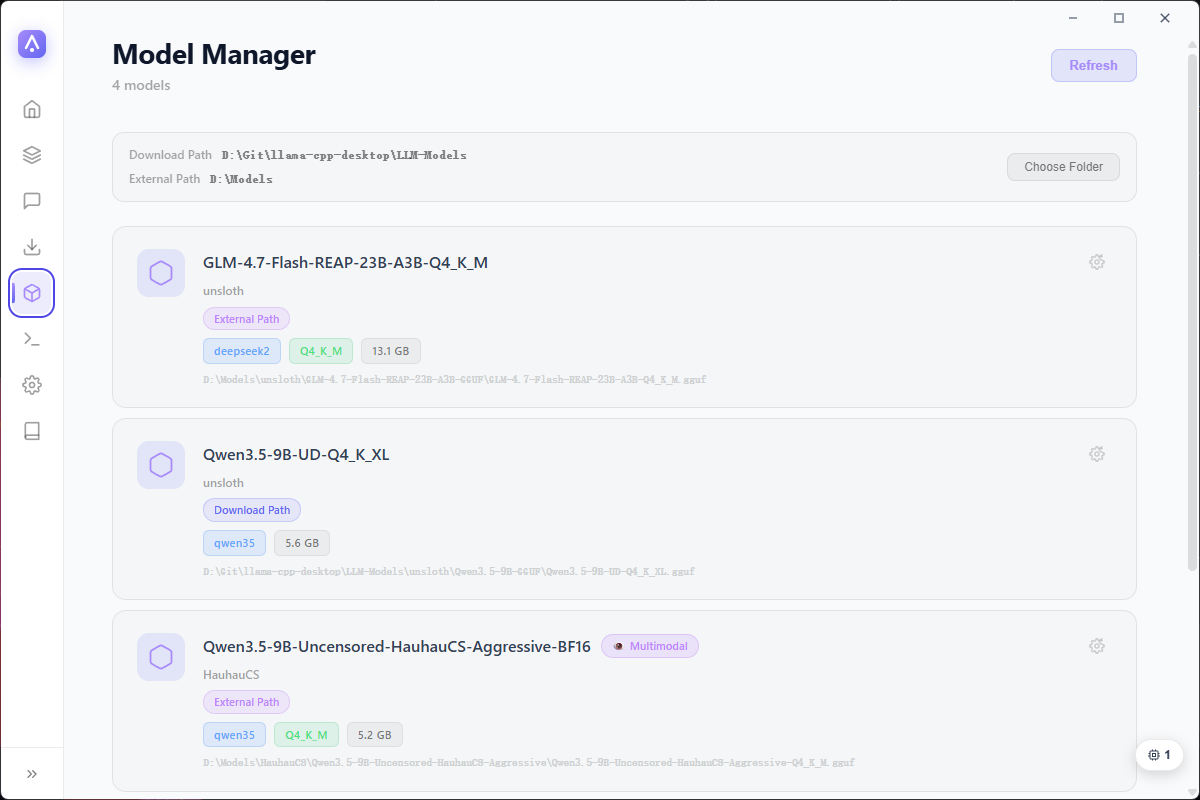
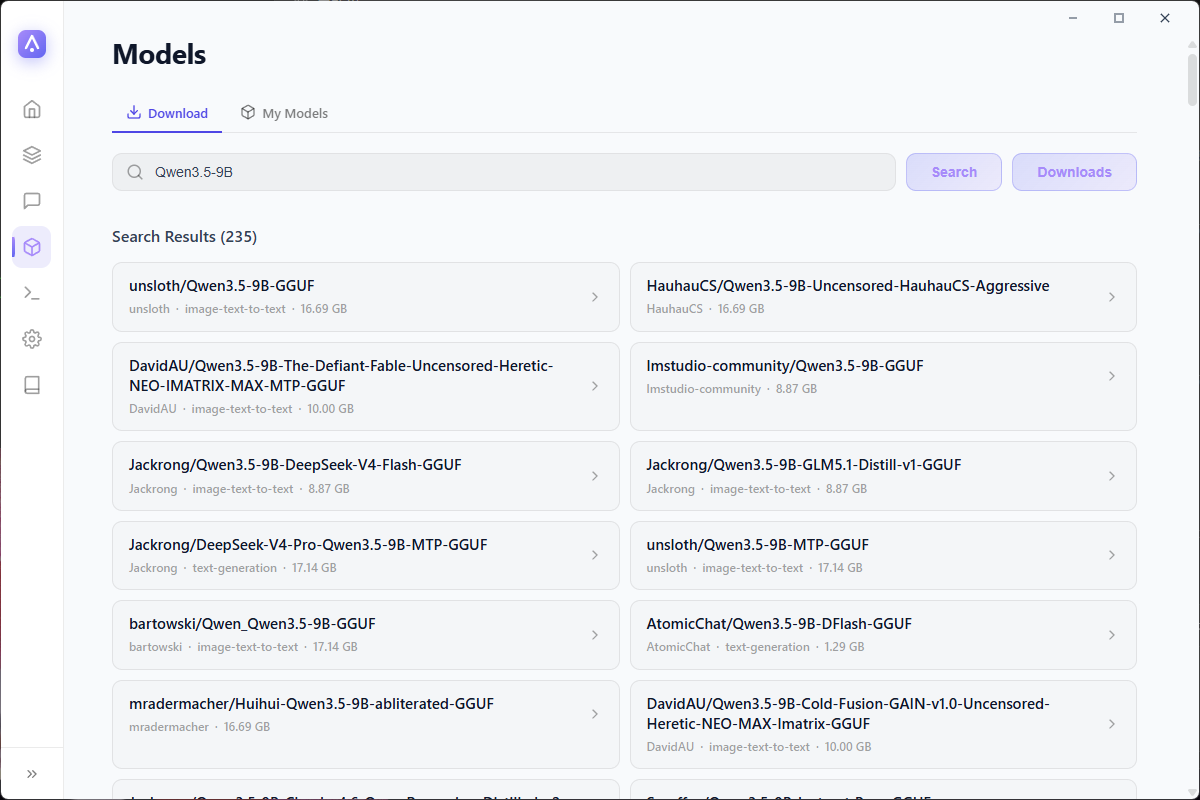
docs: sync tutorial, README and screenshots to the merged models page
Summary:
- Docs: zh/en tutorial sections (downloads / models / faq / quickstart / settings) reworded to the merged page's Download / My Models tabs; section set unchanged so the manifest and remote-fetch paths stay stable
- README (zh/en): preview table reworked to 7 pages + task dock (standalone dock figure folded into the grid, obsolete downloads.png dropped); features / getting-started / usage / FAQ reworded to the tab structure
- Screenshots: docs/screenshots/{zh,en}/models.png re-captured on the merged page (light theme, collapsed sidebar, live search results at 1200x800, matching the existing set); downloads.png removed
- AGENTS.md: views row describes the tabbed Models shell and the moved ModelDetail route; sidebar order updated

Verification:
- grep clean: no page-form 模型下载页/模型管理页 references and no downloads.png references remain across docs, READMEs and AGENTS.md
- The full scripts/check.ps1 gate ran on the tree including these doc edits: vue-tsc zero errors, vite build ok, docs manifest test green, vitest 323 passed (backend gates unaffected and clean)

Remaining gaps:
- None

diff --git a/README_en.md b/README_en.md
@@ -27,11 +27,11 @@ Built with Wails v2 (Go backend + Vue 3 frontend) · Windows x64 · GPL-3.0
 - **One endpoint, many models** — runs llama-server in router mode (`--models-dir` / `--models-preset` / `--models-max`), serving every GGUF in your models directory over a single OpenAI-compatible API (default `http://127.0.0.1:8080/v1`).
 - **On-demand loading & one-click unload** — models load into VRAM / memory only when first requested, no manual preloading; loaded models are listed in the task dock, each with a one-click unload button, so switching models never requires restarting the service.
 - **Headless API-route mode** — one toggle restarts the app as a background-only process (Go backend + system tray + llama-server, no GUI): the WebView2 renderer that costs hundreds of MB of memory in GUI mode exits entirely, leaving only a ~20 MB background process; inference keeps running without interruption, the OpenAI API stays available, and the tray menu's "Show Main Window" brings the full UI back anytime.
-- **Copy-paste model IDs** — the API `model` field is exactly the name shown in the UI (e.g. `Qwen3.6-29B-REAP-Opus-Reasoning-Distill-MTP-Q4_K_M`); copy it from the Model Manager, API Router or Chat page and it just works.
+- **Copy-paste model IDs** — the API `model` field is exactly the name shown in the UI (e.g. `Qwen3.6-29B-REAP-Opus-Reasoning-Distill-MTP-Q4_K_M`); copy it from the "My Models" tab of the Models page, the API Router or the Chat page and it just works.
 - **Hardware-aware auto-tune** — reads real GGUF metrics (block count, GQA/MLA KV geometry, trained context, MoE expert ratio) and snapshots GPU/CPU/RAM to plan GPU layers, context length, threads and cache types per model in one click.
 - **CUDA compatibility guidance** — the System Info page compares GPU compute capability against the installed CUDA runtime and states the verdict outright; Blackwell cards are told they need CUDA 12.8+, so you never chase a mismatched runtime.
 - **Built-in chat** — streaming conversations with markdown rendering and a live reasoning view, image attachments for multimodal models, and per-session sampling controls (temperature, top-p / top-k, repeat penalty, max tokens, system prompt).
-- **Model discovery and downloads** — search HF Mirror (hf-mirror.com) or ModelScope, expand repositories into file lists, and batch-download through a resumable queue (pause / resume / cancel) that survives restarts.
+- **Model discovery and downloads** — the "Download" tab of the Models page searches HF Mirror (hf-mirror.com) or ModelScope, expands repositories into file lists, and batch-downloads through a resumable queue (pause / resume / cancel) that survives restarts.
 - **Per-model inference presets** — GPU layers, KV cache types, long-context RoPE settings, speculative decoding and more, persisted per model and written into the llama-server preset on save.
 - **Live service monitor** — server log console plus prompt-processing / generation token-speed metrics, refreshed every second — all pinned in the viewport, no page scrolling.
 - **Task dock** — a collapsible card floating at the bottom-right corner shows download progress at a glance (llama.cpp / model files / app updates) alongside the models currently loaded in memory, each with a one-click unload button.
@@ -43,17 +43,9 @@ Built with Wails v2 (Go backend + Vue 3 frontend) · Windows x64 · GPL-3.0
 | System Info | Runtime Environment |
 | :---: | :---: |
 | ![System Info](docs/screenshots/en/home.png) | ![Runtime Environment](docs/screenshots/en/runtime.png) |
-| ![Local Chat](docs/screenshots/en/chat.png) | ![Model Manager](docs/screenshots/en/models.png) |
-| ![Model Downloads](docs/screenshots/en/downloads.png) | ![API Router](docs/screenshots/en/api.png) |
-| ![Model Settings](docs/screenshots/en/model-settings.png) | ![Docs](docs/screenshots/en/docs.png) |
-
-<div align="center">
-
-The floating task dock at the bottom-right corner: download progress plus one-click unload for in-memory models.
-
-![Task Dock](docs/screenshots/en/task-dock.png)
-
-</div>
+| ![Local Chat](docs/screenshots/en/chat.png) | ![Models](docs/screenshots/en/models.png) |
+| ![API Router](docs/screenshots/en/api.png) | ![Model Settings](docs/screenshots/en/model-settings.png) |
+| ![Docs](docs/screenshots/en/docs.png) | ![Task Dock](docs/screenshots/en/task-dock.png) |
 
 ## 🚀 Getting Started
 
@@ -85,7 +77,7 @@ wails dev
 **First steps (same for both options):**
 
 1. On **Runtime Environment**, click "Download llama.cpp" to fetch the latest release from GitHub (resumable), or point the app at an existing llama.cpp directory.
-2. On **Model Downloads**, search HF Mirror or ModelScope and download a GGUF file into the models directory (`LLM-Models/` by default); progress shows up in the task dock at the bottom-right corner.
+2. On the **Models** page's "Download" tab, search HF Mirror or ModelScope and download a GGUF file into the models directory (`LLM-Models/` by default); progress shows up in the task dock at the bottom-right corner.
 3. On **API Router**, click "Start Server" (default `127.0.0.1:8080`).
 4. Open **Local Chat**, pick the model, and start talking — or point any OpenAI-compatible client at the endpoint.
 
@@ -94,8 +86,7 @@ wails dev
 - **System Info** — detects CPU, memory, GPU and CUDA, refreshes with live samples, and flags CUDA compatibility for Blackwell GPUs.
 - **Runtime Environment** — shows the llama.cpp installation status (main program and CUDA runtime components); one-click resumable download or a custom directory.
 - **Local Chat** — streaming chat with markdown rendering and image attachments; requires the API router to be running.
-- **Model Downloads** — dual-source search (HF Mirror / ModelScope, switchable in Preferences) with file-level selection and a persistent, resumable download queue.
-- **Model Manager** — scans the models directory for GGUF files (architecture, quantization, multimodal / embedding detection) with one-click hardware-aware auto-tune; each model links to its settings page (basic / inference / memory / multi-GPU / long-context / advanced tabs).
+- **Models** — the "Download" tab: dual-source search (HF Mirror / ModelScope, switchable in Preferences), file-level selection and a persistent, resumable download queue; the "My Models" tab: scans the models directory for GGUF files (architecture, quantization, multimodal / embedding detection) with one-click hardware-aware auto-tune; each model links to its settings page (basic / inference / memory / multi-GPU / long-context / advanced tabs).
 - **API Router** — start / stop / restart llama-server, watch the server log and dual token-speed metrics, edit the port / max concurrent models / prompt cache, and see which models are currently loaded; the access scope and inference GPU are configured under Preferences.
 - **Preferences** — theme, UI language (zh / en / auto), download source, download & import directories, server options such as access scope and the inference GPU, Windows tray toggle, API-route mode, and check for updates.
 - **Docs** — a built-in zh / en tutorial whose content updates online automatically.
@@ -168,10 +159,10 @@ The Vite dev server binds `localhost:5173` (see `frontend:dev:serverUrl` in `wai
 The app enforces a single-instance mutex. Close any running Llama Desktop first (including the installed copy and tray-only background instances), then start dev mode again.
 
 **"Start" on the API Router page fails with "no models found".**
-Startup scans the models directory and generates presets first, so an empty directory is an error. Put GGUF files into `LLM-Models/` (check the Model Manager page) and try again. Also confirm llama.cpp is installed, as shown on the Runtime Environment page.
+Startup scans the models directory and generates presets first, so an empty directory is an error. Put GGUF files into `LLM-Models/` (check the "My Models" tab of the Models page) and try again. Also confirm llama.cpp is installed, as shown on the Runtime Environment page.
 
 **API calls fail with `model not found`.**
-The `model` field must match the name shown in the UI exactly (the service matches case-sensitively). Copy-paste from the API Router model tags or the Model Manager page instead of typing it by hand.
+The `model` field must match the name shown in the UI exactly (the service matches case-sensitively). Copy-paste from the API Router model tags or the "My Models" tab of the Models page instead of typing it by hand.
 
 **Every backend call throws when running the frontend with `npm run dev` standalone.**
 `window.go` is injected by the Wails runtime, so Vite without `wails dev` has no bridge to the Go backend — this is expected. Use `wails dev` to debug the UI with the backend attached.

diff --git a/README.md b/README.md
@@ -27,11 +27,11 @@
 - **一个端点，多个模型** — 以路由器模式运行 llama-server（`--models-dir` / `--models-preset` / `--models-max`），把模型目录下的所有 GGUF 汇聚到一个 OpenAI 兼容 API（默认 `http://127.0.0.1:8080/v1`）。
 - **按需加载与一键卸载** — 模型仅在首次被请求时加载进显存 / 内存，无需手动预载；已加载模型在任务卡片中一目了然，空闲即点即卸载释放资源，多模型轮换不用重启服务。
 - **无头 API 路由模式** — 一个开关即切换为纯后台运行（Go 后端 + 系统托盘 + llama-server，界面关闭）：GUI 模式下占用数百 MB 内存的 WebView2 界面进程整体退出，仅保留约 20 MB 的后台进程；推理全程不中断，OpenAI API 持续可用，托盘菜单「显示主窗口」随时回到完整界面。
-- **模型 ID 所见即所得** — API 的 `model` 字段就是页面上显示的模型名（如 `Qwen3.6-29B-REAP-Opus-Reasoning-Distill-MTP-Q4_K_M`），从模型管理页、API 路由页或聊天页复制即可直接使用。
+- **模型 ID 所见即所得** — API 的 `model` 字段就是页面上显示的模型名（如 `Qwen3.6-29B-REAP-Opus-Reasoning-Distill-MTP-Q4_K_M`），从模型页「我的模型」标签、API 路由页或聊天页复制即可直接使用。
 - **硬件感知一键调优** — 读取 GGUF 真实指标（层数、GQA/MLA KV 几何、训练上下文、MoE 专家占比），结合 GPU/CPU/内存快照为每个模型自动规划 GPU 层数、上下文长度、线程与缓存类型。
 - **CUDA 兼容性提示** — 系统信息页自动比对显卡算力与已安装的 CUDA 运行时并给出兼容性判定，Blackwell 显卡会明确提示需要 CUDA 12.8+，避免装错运行时。
 - **内置本地聊天** — 直连本地端点的流式对话，Markdown 渲染、思考过程实时展示，多模态模型支持发送图片，会话级采样参数可调（temperature、top-p / top-k、重复惩罚、最大 token 数、系统提示词）。
-- **模型搜索与下载** — 支持 HF Mirror（hf-mirror.com）与 ModelScope 双源搜索，仓库可展开为文件列表，批量下载走可断点续传的任务队列（暂停 / 继续 / 取消），队列重启后自动恢复。
+- **模型搜索与下载** — 模型页「下载模型」标签支持 HF Mirror（hf-mirror.com）与 ModelScope 双源搜索，仓库可展开为文件列表，批量下载走可断点续传的任务队列（暂停 / 继续 / 取消），队列重启后自动恢复。
 - **逐模型推理预设** — GPU 层数、KV 缓存类型、长上下文 RoPE、投机解码等参数按模型独立保存，保存后自动写入 llama-server 预设。
 - **实时服务监控** — 服务日志控制台与提示词处理 / 生成 Token 速度双指标，每秒刷新，全部固定在视口内无需滚动。
 - **灵动任务卡片** — 右下角悬浮的可收起卡片，一眼看清下载进度（llama.cpp / 模型文件 / 应用更新），同时列出当前内存中已加载的模型，每个模型带一键卸载按钮。
@@ -43,17 +43,9 @@
 | 系统信息 | 运行环境 |
 | :---: | :---: |
 | ![系统信息](docs/screenshots/zh/home.png) | ![运行环境](docs/screenshots/zh/runtime.png) |
-| ![本地聊天](docs/screenshots/zh/chat.png) | ![模型管理](docs/screenshots/zh/models.png) |
-| ![模型下载](docs/screenshots/zh/downloads.png) | ![API 路由](docs/screenshots/zh/api.png) |
-| ![模型设置](docs/screenshots/zh/model-settings.png) | ![帮助文档](docs/screenshots/zh/docs.png) |
-
-<div align="center">
-
-右下角的灵动任务卡片：下载进度与已加载模型一键卸载。
-
-![灵动任务卡片](docs/screenshots/zh/task-dock.png)
-
-</div>
+| ![本地聊天](docs/screenshots/zh/chat.png) | ![模型](docs/screenshots/zh/models.png) |
+| ![API 路由](docs/screenshots/zh/api.png) | ![模型设置](docs/screenshots/zh/model-settings.png) |
+| ![帮助文档](docs/screenshots/zh/docs.png) | ![灵动任务卡片](docs/screenshots/zh/task-dock.png) |
 
 ## 🚀 快速开始
 
@@ -85,7 +77,7 @@ wails dev
 **首次使用（两种方式通用）：**
 
 1. 在**运行环境**页点击「下载 llama.cpp」从 GitHub 获取最新版（支持断点续传），也可指定已有的 llama.cpp 目录。
-2. 在**模型下载**页搜索 HF Mirror 或 ModelScope，将 GGUF 文件下载到模型目录（默认 `LLM-Models/`）；进度显示在右下角任务卡片中。
+2. 在**模型**页的「下载模型」标签搜索 HF Mirror 或 ModelScope，将 GGUF 文件下载到模型目录（默认 `LLM-Models/`）；进度显示在右下角任务卡片中。
 3. 在**API 路由**页点击「启动服务」（默认 `127.0.0.1:8080`）。
 4. 打开**本地聊天**页选择模型即可对话，也可以让任意 OpenAI 兼容客户端接入该端点。
 
@@ -94,8 +86,7 @@ wails dev
 - **系统信息** — 自动检测 CPU、内存、GPU 与 CUDA 环境，实时采样刷新，并给出 Blackwell 显卡与 CUDA 版本的兼容性提示。
 - **运行环境** — 展示 llama.cpp 安装状态（主程序与 CUDA 运行时组件）；支持一键断点续传下载或自定义目录。
 - **本地聊天** — 流式聊天，支持 Markdown 渲染与图片附件；需要 API 路由服务处于运行状态。
-- **模型下载** — 双源搜索（HF Mirror / ModelScope，可在偏好设置中切换默认源），文件级选择，持久化的可断点续传下载队列。
-- **模型管理** — 扫描模型目录下的 GGUF 文件（解析架构、量化等级，识别多模态 / 嵌入模型），支持硬件感知一键调优；每个模型可进入设置页（基础 / 推理 / 内存 / 多 GPU / 长上下文 / 高级六个标签页）。
+- **模型** — 「下载模型」标签：双源搜索（HF Mirror / ModelScope，可在偏好设置中切换默认源）、文件级选择、持久化的可断点续传下载队列；「我的模型」标签：扫描模型目录下的 GGUF 文件（解析架构、量化等级，识别多模态 / 嵌入模型），支持硬件感知一键调优；每个模型可进入设置页（基础 / 推理 / 内存 / 多 GPU / 长上下文 / 高级六个标签页）。
 - **API 路由** — 启动 / 停止 / 重启 llama-server，查看服务日志与 Token 速度双指标，配置 Port / 最大并发模型数 / Prompt 缓存，并查看当前已加载的模型；访问范围与推理显卡等服务器配置在偏好设置中调整。
 - **偏好设置** — 主题、界面语言（zh / en / auto）、下载源、下载与导入目录、服务访问范围与推理显卡等服务器配置、Windows 托盘开关、API 路由模式、检查更新。
 - **帮助** — 内置中英双语教程，内容自动在线更新。
@@ -168,10 +159,10 @@ Vite 开发服务器绑定 `localhost:5173`（见 `wails.json` 的 `frontend:dev
 应用使用单实例互斥锁。请先关闭正在运行的 Llama Desktop（包括安装版和托盘里的后台实例），再重新启动开发模式。
 
 **API 路由页「启动」失败，提示找不到模型。**
-启动流程会先扫描模型目录并生成预设，目录为空时会报错。请先将 GGUF 文件放入 `LLM-Models/`（可在模型管理页确认），然后重试；同时请在运行环境页确认 llama.cpp 已安装。
+启动流程会先扫描模型目录并生成预设，目录为空时会报错。请先将 GGUF 文件放入 `LLM-Models/`（可在模型页「我的模型」标签确认），然后重试；同时请在运行环境页确认 llama.cpp 已安装。
 
 **调用 API 报 `model not found`。**
-`model` 字段必须与页面显示的模型名大小写完全一致（服务按精确匹配）。请从 API 路由页的模型标签或模型管理页复制粘贴，不要手打。
+`model` 字段必须与页面显示的模型名大小写完全一致（服务按精确匹配）。请从 API 路由页的模型标签或模型页「我的模型」标签复制粘贴，不要手打。
 
 **单独运行 `npm run dev` 时所有后端调用都报错。**
 `window.go` 由 Wails 运行时注入，脱离 `wails dev` 的 Vite 没有通往 Go 后端的桥接层，这是预期行为。调试 UI 请使用 `wails dev`。

diff --git a/AGENTS.md b/AGENTS.md
@@ -76,7 +76,7 @@ powershell -NoProfile -ExecutionPolicy Bypass -File .\scripts\check.ps1  # Combi
 | `core/devbuild_dev.go` / `core/devbuild_release.go` | `isDevBuild` via the `dev` build tag (`wails dev` sets it, `wails build` does not); declared as a var so plain `go test` runs can exercise dev branches |
 | `core/*_test.go` | Backend unit tests (`runCmd` cross-platform, `hideWindow` platform branch, config persistence, GGUF parsing, model scanning, preset generation, download/HF/ModelScope network tests, monitor, router, update, tray, cross-device, etc.) |
 | `frontend/src/wails.ts` | Sole frontend entry for calling the backend (`window.go.core.App.*` bridge layer) |
-| `frontend/src/views/` | Pages: `Home` (system info: CPU / memory / GPU / CUDA, plus the quick-start onboarding checklist), `Runtime` (runtime environment: llama.cpp per-component status — main program + CUDA runtime — with resumable download / custom directory; former llama.cpp card on Home), `Chat` (local chat: direct SSE streaming to llama-server), `Downloads` (HF Mirror / ModelScope search), `ModelDetail` (download subpage: file list + description; not in sidebar), `Models` (model list; merges the model download path and imported external directories, each model labeled with its source dir), `ModelSettings` (standalone route page for per-model inference params; not in sidebar), `Api` (service start/stop + inference speed monitor (token TPS / uptime) + service log console; former `Monitor` page merged in and redirected), `Settings` (theme / language / download source / directories: llama.cpp & model download paths + external import dirs / tray / API-route mode / check for updates), `Docs` (in-app bilingual tutorial page; per-section lazy content with remote-first fetch: GitHub main → disk cache → bundled fallback, source badge + refresh + open-on-GitHub). Sidebar order: Home → Runtime → Chat → Downloads → Models → API → Settings → Docs |
+| `frontend/src/views/` | Pages: `Home` (system info: CPU / memory / GPU / CUDA, plus the quick-start onboarding checklist), `Runtime` (runtime environment: llama.cpp per-component status — main program + CUDA runtime — with resumable download / custom directory; former llama.cpp card on Home), `Chat` (local chat: direct SSE streaming to llama-server), `Models` (merged model page: shell with two tabs — `Download` tab (default, route `/models/download`: HF Mirror / ModelScope search; backed by `downloadsState.ts`) + `My Models` tab (route `/models/local`: model list; merges the model download path and imported external directories, each model labeled with its source dir); `/downloads` redirects), `ModelDetail` (model detail at `/models/model/:modelId`: file list + description; not in sidebar), `ModelSettings` (standalone route page for per-model inference params; not in sidebar), `Api` (service start/stop + inference speed monitor (token TPS / uptime) + service log console; former `Monitor` page merged in and redirected), `Settings` (theme / language / download source / directories: llama.cpp & model download paths + external import dirs / tray / API-route mode / check for updates), `Docs` (in-app bilingual tutorial page; per-section lazy content with remote-first fetch: GitHub main → disk cache → bundled fallback, source badge + refresh + open-on-GitHub). Sidebar order: Home → Runtime → Chat → Models → API → Settings → Docs |
 | `frontend/src/docs/` | In-app tutorial source: `manifest.ts` (typed section list + lazy zh/en raw loaders; `docs.test.ts` enforces id uniqueness, bilingual completeness and injection hygiene) plus the zh/en markdown bodies — bundled at build time and fetched remotely from main by `core/remotedocs.go` (see "Documentation and In-App Tutorial") |
 | `frontend/src/components/` | `Sidebar` (navigation + collapse + system-ready status), `UpdateModal` (update download modal), `TaskDock` (global bottom-right task card: download progress + in-memory model unload), `ThemedSelect` (themed custom dropdown: button trigger + in-app option list; variants `field` / `toolbar`) |
 | `frontend/src/lib/` | Pure/state modules: `i18n.ts` (bilingual dictionary), `format.ts` (bytes / percent / uptime), `monitor.ts` (TPS formatting, uptime), `chat.ts` + `chatState.ts` (SSE parsing, chat request building, module-level chat state + localStorage persistence), `dock.ts` / `downloadStatus.ts` / `taskStatus.ts` / `llamaDownload.ts` (download-state vocabularies and display rules), `modelFiles.ts` (file sorting + quantization guessing), `downloadsState.ts` (search context), `update.ts` (update check/download state), `selectOptions.ts` (option shape + display-label resolution for ThemedSelect), `dockSpace.ts` (shared bottom-space reservation for the floating TaskDock pill so overlaid controls stay clickable), `limitedQueue.ts` / `latestOnly.ts` / `systemReady.ts` (task queue, polling, readiness), `sysinfo.ts` (Home GPU display model: static snapshot + live monitor sample merging, VRAM aggregation, CUDA Blackwell compatibility classification), `onboarding.ts` (Home quick-start checklist view model; visibility rule and per-step routes, dismissal persisted via the `onboardingDismissed` config field), `markdown.ts` (shared markdown-it instance for chat message rendering; raw HTML disabled as injection defense), `scroll.ts` (stick-to-bottom scroll geometry for the chat view), `remoteDocs.ts` (docs content source resolution + badge time formatting) |

diff --git a/frontend/src/docs/en/downloads.md b/frontend/src/docs/en/downloads.md
@@ -1,4 +1,4 @@
-The "Downloads" page searches online model hubs and fetches `.gguf` model files. Downloaded and imported models all show up together on the "Models" page.
+The "Download" tab of the Models page searches online model hubs and fetches `.gguf` model files. Downloaded and imported models all show up together on the same page's "My Models" tab.
 
 ## Three download sources
 
@@ -31,7 +31,7 @@ Downloads are **resumable**: after pausing or failing, the transfer picks up fro
 
 If GGUF files already exist on this machine, there is no need to re-download:
 
-1. Open the "Models" page and click "Choose Folder";
+1. Open the "My Models" tab of the Models page and click "Choose Folder";
 2. Pick the directory that holds your models — the app scans it immediately and adds everything it finds to the list.
 
-The Models page merges models from the **download path** and the **imported path**, labelling each model with its source (Download Path / External Path). Imported directories are scanned including subfolders, and results show each model's architecture, quantization and size.
+The "My Models" tab merges models from the **download path** and the **imported path**, labelling each model with its source (Download Path / External Path). Imported directories are scanned including subfolders, and results show each model's architecture, quantization and size.

diff --git a/frontend/src/docs/en/settings.md b/frontend/src/docs/en/settings.md
@@ -7,14 +7,14 @@ The "Preferences" page centralizes the app's global configuration, grouped at th
 
 ## Downloads & Directories
 
-**Model download source**: three sources: **HF Mirror** (hf-mirror.com), **ModelScope**, and **Hugging Face Official** (huggingface.co). The setting drives both search and download on the Downloads page; on Chinese networks prefer the mirror or ModelScope.
+**Model download source**: three sources: **HF Mirror** (hf-mirror.com), **ModelScope**, and **Hugging Face Official** (huggingface.co). The setting drives both search and download on the "Download" tab of the Models page; on Chinese networks prefer the mirror or ModelScope.
 
 **Directories**:
 
 - **llama.cpp Download Path**: where newly downloaded llama.cpp installs are extracted;
 - **Model Download Path**: where new model downloads are saved (default `LLM-Models` under the app directory).
 
-These two paths decide where **new** content lands; to reuse model files already on disk, set an external path with "Choose Folder" on the Models page instead.
+These two paths decide where **new** content lands; to reuse model files already on disk, set an external path with "Choose Folder" on the "My Models" tab of the Models page instead.
 
 ## Server
 

diff --git a/frontend/src/docs/en/faq.md b/frontend/src/docs/en/faq.md
@@ -2,11 +2,11 @@ A quick troubleshooting handbook. Try the simplest fix first.
 
 ## "no models found in the LLM-Models directory" when starting the service
 
-Before starting, the app scans the model directories (the model download path plus the external path imported on the Models page) and generates presets; the error appears when neither contains any GGUF file. Any one of these fixes it:
+Before starting, the app scans the model directories (the model download path plus the external path imported on the "My Models" tab of the Models page) and generates presets; the error appears when neither contains any GGUF file. Any one of these fixes it:
 
-- Download at least one model on the "Downloads" page;
+- Download at least one model on the "Download" tab of the Models page;
 - Or point the model download path at your existing model folder under "Preferences → Directories";
-- Or import an existing model directory with "Choose Folder" on the "Models" page (imported models are recognized by the service too).
+- Or import an existing model directory with "Choose Folder" on the "My Models" tab of the Models page (imported models are recognized by the service too).
 
 ## Port already in use
 

diff --git a/frontend/src/docs/zh/quickstart.md b/frontend/src/docs/zh/quickstart.md
@@ -12,14 +12,14 @@ llama.cpp 是真正执行推理的引擎，应用通过它启动本地服务。
 
 ## 第二步：下载模型
 
-模型是 `.gguf` 格式的权重文件，从「模型下载」页获取：
+模型是 `.gguf` 格式的权重文件，从模型页的「下载模型」标签获取：
 
-1. 打开「模型下载」页，在搜索框输入模型名（如 `Qwen`、`DeepSeek`）。
+1. 打开模型页的「下载模型」标签，在搜索框输入模型名（如 `Qwen`、`DeepSeek`）。
 2. 在搜索结果中点击感兴趣的模型，进入详情页。
 3. 勾选需要的 `.gguf` 文件（不确定就选体积适中的 Q4 量化版本），点击「下载选中文件」。
 4. 下载进度显示在右下角任务卡和下载管理面板中，支持暂停、继续与断点续传。
 
-下载完成的模型会自动出现在「模型管理」页。国内网络推荐先在设置页把下载源切换为 HF 镜像或 ModelScope，速度更稳定。
+下载完成的模型会自动出现在模型页的「我的模型」标签。国内网络推荐先在设置页把下载源切换为 HF 镜像或 ModelScope，速度更稳定。
 
 ## 第三步：启动服务
 

diff --git a/frontend/src/docs/zh/downloads.md b/frontend/src/docs/zh/downloads.md
@@ -1,4 +1,4 @@
-「模型下载」页从在线模型仓库搜索并下载 `.gguf` 模型文件。已下载和已导入的模型统一显示在「模型管理」页。
+模型页的「下载模型」标签从在线模型仓库搜索并下载 `.gguf` 模型文件。已下载和已导入的模型统一显示在同一页的「我的模型」标签。
 
 ## 三个下载源
 
@@ -31,7 +31,7 @@
 
 如果你电脑上已经有 GGUF 文件，不必重新下载：
 
-1. 打开「模型管理」页，点「选择文件夹」；
+1. 打开模型页的「我的模型」标签，点「选择文件夹」；
 2. 选择存放模型的目录，应用会立即扫描并把里面的模型加入列表。
 
-模型管理页会把**下载路径**和**外部路径**的模型合并展示，每个模型带来源标注（下载路径 / 外部路径）。外部路径会连同子目录一起扫描，结果显示模型的架构、量化和体积。
+「我的模型」标签会把**下载路径**和**外部路径**的模型合并展示，每个模型带来源标注（下载路径 / 外部路径）。外部路径会连同子目录一起扫描，结果显示模型的架构、量化和体积。

diff --git a/frontend/src/docs/zh/settings.md b/frontend/src/docs/zh/settings.md
@@ -7,14 +7,14 @@
 
 ## 下载与目录
 
-**模型下载源**：三个可选源：**HF 镜像**（hf-mirror.com）、**ModelScope**（魔搭）、**Hugging Face 官方**（huggingface.co）。该设置同时作用于「模型下载」页的搜索和下载，国内网络推荐镜像或魔搭。
+**模型下载源**：三个可选源：**HF 镜像**（hf-mirror.com）、**ModelScope**（魔搭）、**Hugging Face 官方**（huggingface.co）。该设置同时作用于模型页「下载模型」标签的搜索和下载，国内网络推荐镜像或魔搭。
 
 **目录**：
 
 - **llama.cpp 下载路径**：新下载的 llama.cpp 安装到哪里；
 - **模型下载路径**：新下载的模型保存到哪里（默认是应用目录下的 `LLM-Models`）。
 
-这两个路径决定**新内容**的落点；想复用电脑里已有的模型文件，去「模型管理」页用「选择文件夹」设置外部路径。
+这两个路径决定**新内容**的落点；想复用电脑里已有的模型文件，去模型页「我的模型」标签用「选择文件夹」设置外部路径。
 
 ## 服务
 

diff --git a/frontend/src/docs/en/quickstart.md b/frontend/src/docs/en/quickstart.md
@@ -12,14 +12,14 @@ If you already have llama.cpp on disk (a directory containing the llama-server b
 
 ## Step 2: Download a model
 
-Models are `.gguf` weight files; get them from the "Downloads" page:
+Models are `.gguf` weight files; get them from the "Download" tab of the Models page:
 
 1. Type a model name (e.g. `Qwen`, `DeepSeek`) into the search box.
 2. Click a search result to open the model detail page.
 3. Tick the `.gguf` files you want (if unsure, pick a mid-size Q4 quantization), then click "Download Selected".
 4. Progress shows in the bottom-right task card and the download manager, with pause, resume and resumable transfers.
 
-Finished models appear automatically on the "Models" page. On Chinese networks, switching the download source to the HF Mirror or ModelScope in Settings first usually gives steadier speeds.
+Finished models appear automatically on the "My Models" tab of the Models page. On Chinese networks, switching the download source to the HF Mirror or ModelScope in Settings first usually gives steadier speeds.
 
 ## Step 3: Start the service
 

diff --git a/frontend/src/docs/zh/faq.md b/frontend/src/docs/zh/faq.md
@@ -2,11 +2,11 @@
 
 ## 启动服务提示"no models found in the LLM-Models directory"
 
-启动服务前，应用会先扫描模型目录（模型下载路径 + 模型管理页导入的外部路径）并生成预设；两处都找不到任何 GGUF 文件时就会报这个错。解决方式任选其一：
+启动服务前，应用会先扫描模型目录（模型下载路径 + 「我的模型」标签导入的外部路径）并生成预设；两处都找不到任何 GGUF 文件时就会报这个错。解决方式任选其一：
 
-- 去「模型下载」页下载至少一个模型；
+- 去模型页的「下载模型」标签下载至少一个模型；
 - 或在「偏好设置 → 目录」里把模型下载路径改到你存放模型的地方；
-- 或在「模型管理」页用「选择文件夹」导入已有模型目录（导入路径的模型同样会被服务识别）。
+- 或在模型页的「我的模型」标签用「选择文件夹」导入已有模型目录（导入路径的模型同样会被服务识别）。
 
 ## 端口被占用
 

diff --git a/frontend/src/docs/en/models.md b/frontend/src/docs/en/models.md
@@ -1,10 +1,10 @@
-The "Models" page gathers every usable model on this machine, and each model can have its own inference parameters. When the API service starts, the app turns these parameters into a llama-server preset per model.
+The "My Models" tab of the Models page gathers every usable model on this machine, and each model can have its own inference parameters. When the API service starts, the app turns these parameters into a llama-server preset per model.
 
 ## The model list
 
 The list merges two sources, distinguished by a label:
 
-- **Download Path**: models downloaded through the Downloads page;
+- **Download Path**: models downloaded through the Download tab;
 - **External Path**: directories imported via "Choose Folder".
 
 Each model card shows the name, architecture (e.g. `qwen2`), quantization (e.g. `Q4_K_M`), size and full path. Multimodal-capable models carry a "Multimodal" badge (an mmproj file was found next to them). Click "Refresh" to rescan after files change.
